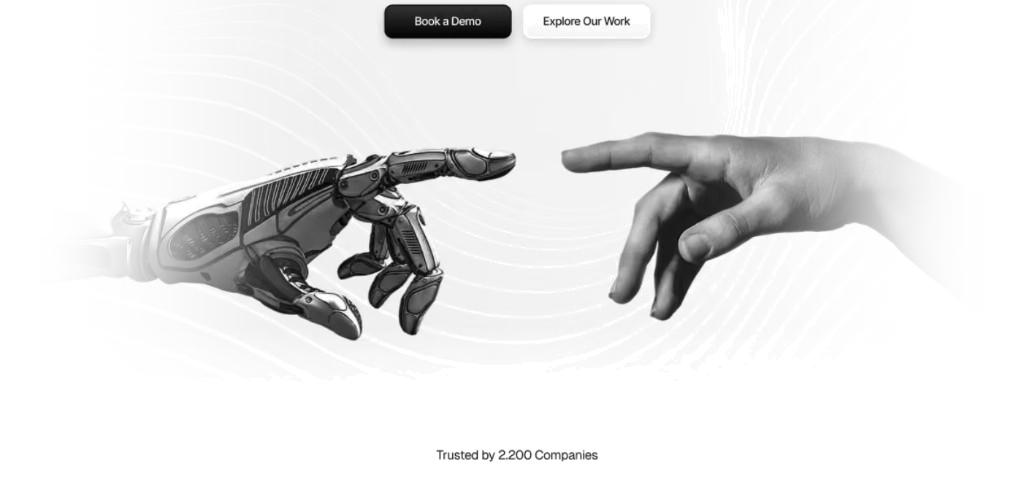
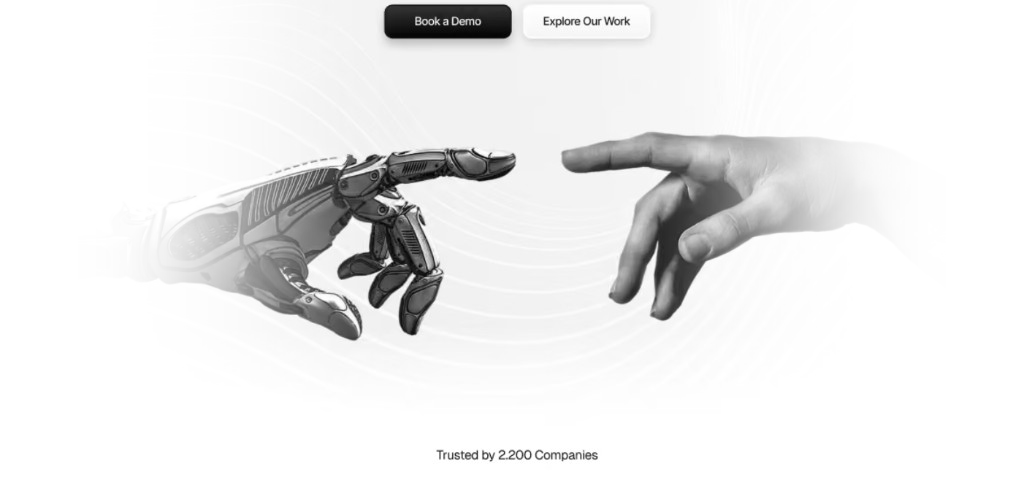
Serve raw hero PNG with alpha and a wider side mask dissolve.
Next image optimization was palettizing the PNG and recreating hard left/right edges.

Changed region(s): [[0.125, 0.3438, 0.3438, 0.6875], [0.6562, 0.2812, 0.875, 0.625]]

diff --git a/app/globals.css b/app/globals.css
@@ -78,19 +78,23 @@ body {
   object-fit: contain;
   object-position: center center;
   background: transparent;
-  /* Extra soft dissolve so left/right never read as an imported rectangle */
+  /* Soft left/right dissolve into the page (no imported rectangle) */
   -webkit-mask-image: linear-gradient(
     to right,
     transparent 0%,
-    #000 22%,
-    #000 78%,
+    rgba(0, 0, 0, 0.35) 12%,
+    #000 28%,
+    #000 72%,
+    rgba(0, 0, 0, 0.35) 88%,
     transparent 100%
   );
   mask-image: linear-gradient(
     to right,
     transparent 0%,
-    #000 22%,
-    #000 78%,
+    rgba(0, 0, 0, 0.35) 12%,
+    #000 28%,
+    #000 72%,
+    rgba(0, 0, 0, 0.35) 88%,
     transparent 100%
   );
 }

diff --git a/components/LandingPage.tsx b/components/LandingPage.tsx
@@ -63,6 +63,7 @@ export function LandingPage() {
               width={1024}
               height={480}
               priority
+              unoptimized
               sizes="100vw"
               className="hero-art-img h-auto w-full select-none"
             />
